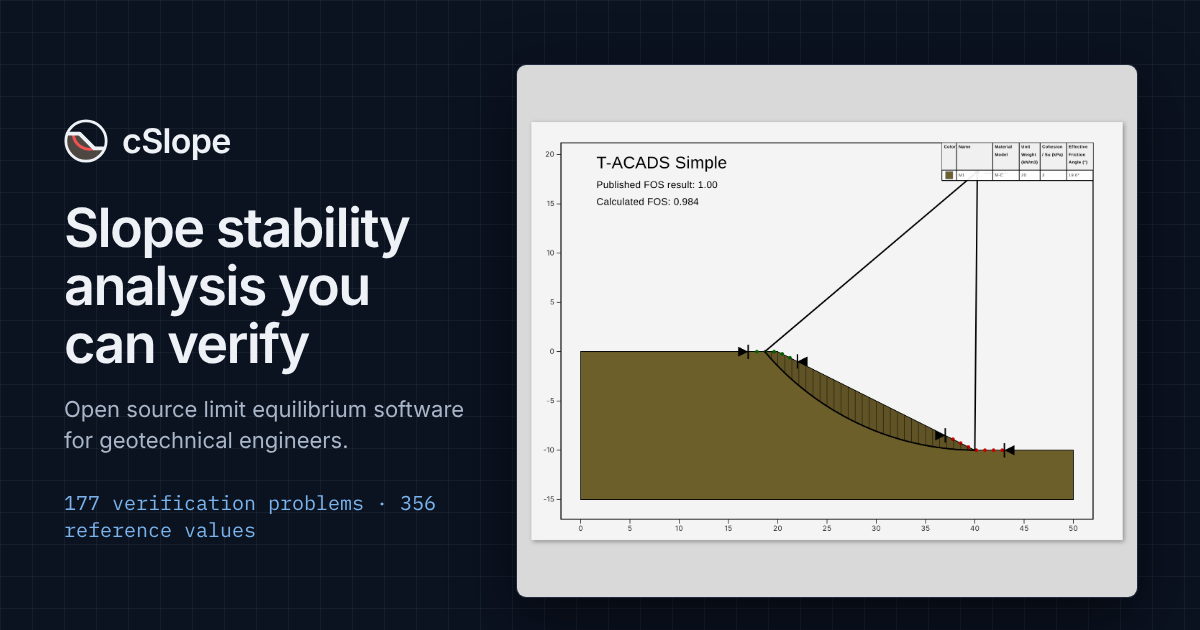
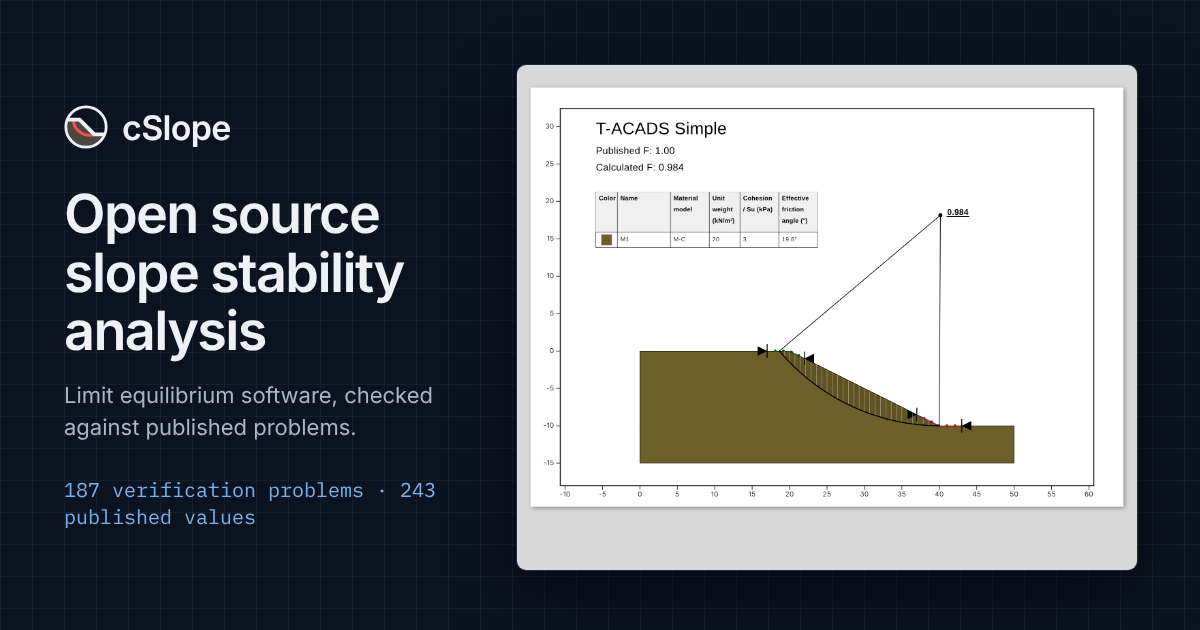
Website: plainer copy (humanizer pass on the home, features, about and download pages) (#118)
Headings and leads that promised rather than stated are rewritten as
plain facts: the hero, the section titles on the home page, the features
header and leads, the about page and the download lead. The features page
no longer says projects are saved as plain JSON (they are .cslp files).
The social preview image is re-rendered with the new text.

Claude-Session: https://claude.ai/code/session_01BL3SnYT7y9qgZYwTFmy79Q

diff --git a/packages/website/src/pages/Home.tsx b/packages/website/src/pages/Home.tsx
@@ -40,7 +40,7 @@ function Hero() {
             {s.problems} verification problems, {s.publishedValues} published values
           </p>
           <h1 className="mt-6 text-4xl font-semibold tracking-tight text-balance sm:text-5xl">
-            Slope stability analysis you can verify
+            Slope stability analysis, checked against published problems
           </h1>
           <p className="mt-6 max-w-xl text-lg leading-relaxed text-muted-foreground text-pretty">
             cSlope is limit equilibrium software for geotechnical engineers. Bishop, Janbu and Morgenstern-Price on
@@ -116,10 +116,10 @@ function WebApp() {
       <div className="grid items-center gap-8 overflow-hidden rounded-xl border bg-card p-6 sm:p-10 lg:grid-cols-[1fr_1.4fr] lg:gap-12">
         <div>
           <p className="text-sm font-semibold text-primary">In the browser</p>
-          <h2 className="mt-2 text-2xl font-semibold tracking-tight sm:text-3xl">Try it in your browser</h2>
+          <h2 className="mt-2 text-2xl font-semibold tracking-tight sm:text-3xl">Two templates to try without installing</h2>
           <p className="mt-3 leading-relaxed text-muted-foreground text-pretty">
-            Two templates, an excavation in clay with a haul road and an embankment on clay. Fill in the form and the
-            cSlope engine computes F on your own computer, with nothing to install.
+            An excavation in clay with a haul road, and an embankment on clay. Fill in the form and the cSlope engine
+            computes F on your own computer.
           </p>
           <Button asChild size="lg" className="mt-6">
             <a {...link}>
@@ -143,12 +143,12 @@ function WebApp() {
 const CAPABILITIES: { icon: ReactNode; title: string; text: string }[] = [
   {
     icon: <BarChart3 className="h-5 w-5" />,
-    title: "Three methods, one model",
+    title: "Methods",
     text: "Bishop simplified, Janbu with the f₀ correction and Morgenstern-Price with constant (Spencer), half-sine, clipped-sine, trapezoidal or user-defined interslice functions.",
   },
   {
     icon: <Spline className="h-5 w-5" />,
-    title: "Circular and non-circular",
+    title: "Slip surfaces",
     text: "Search by entry and exit ranges, custom circles and polylines, non-circular optimization, minimum slip depth and analysis in both slip directions.",
   },
   {
@@ -178,8 +178,8 @@ function Capabilities() {
     <Section id="capabilities">
       <SectionHeading
         eyebrow="Capabilities"
-        title="Everything a slope stability review needs"
-        lead="One desktop application for the whole job: model the section, run the search, check the result and produce the report."
+        title="What the desktop application does"
+        lead="Model the section, search for the critical surface, check the result and print the report, in one program."
       />
       <div className="mt-12 grid gap-px overflow-hidden rounded-lg border bg-border sm:grid-cols-2 lg:grid-cols-3">
         {CAPABILITIES.map((c) => (
@@ -320,7 +320,7 @@ const GALLERY = [
 function Gallery() {
   return (
     <Section id="screenshots">
-      <SectionHeading eyebrow="The application" title="Built for daily engineering work" />
+      <SectionHeading eyebrow="The application" title="Screenshots" />
       <div className="mt-12 grid gap-6 md:grid-cols-2">
         {GALLERY.map((g) => (
           <Screenshot
@@ -337,9 +337,9 @@ function Gallery() {
 }
 
 const OPEN_SOURCE = [
-  ["Transparent", "The solvers, the search and every verification problem are in the public repository."],
-  ["Reproducible", "Deterministic solvers and an open project file (JSON in a ZIP archive): the same model gives the same answer."],
-  ["Maintained", `Developed by ${SITE.company.name}, with automated tests and verification on every change.`],
+  ["The code is public", "The solvers, the search and every verification problem are in the public repository."],
+  ["The same model gives the same answer", "The solvers are deterministic. A project is a .cslp file: JSON in a ZIP archive."],
+  ["Tested on every change", `Developed by ${SITE.company.name}. The automated tests and the verification problems run on every change.`],
 ] as const;
 
 function OpenSource() {
@@ -348,8 +348,8 @@ function OpenSource() {
       <div className="grid gap-10 md:grid-cols-2 md:items-center">
         <SectionHeading
           eyebrow="Open source"
-          title="Yours to inspect, run and keep"
-          lead="cSlope is MIT licensed. There is no license server, no subscription and no lock-in: install it on every machine in the office, read the solver code behind any result, and keep the version your project was approved with."
+          title="No license server, no subscription"
+          lead="cSlope is MIT licensed. You can install it on every computer in the office, read the solver code behind a result, and keep using the version a project was approved with."
         />
         <ul className="grid gap-4 text-sm">
           {OPEN_SOURCE.map(([title, text]) => (
@@ -372,10 +372,9 @@ function DownloadBand() {
     <Section id="download">
       <div className="flex flex-col items-start justify-between gap-8 rounded-xl border bg-card p-8 sm:p-12 md:flex-row md:items-center">
         <div className="max-w-xl">
-          <h2 className="text-2xl font-semibold tracking-tight sm:text-3xl">Try it on your next section</h2>
+          <h2 className="text-2xl font-semibold tracking-tight sm:text-3xl">Download cSlope</h2>
           <p className="mt-3 text-muted-foreground">
-            Install cSlope on Windows and open one of the example models from Help › Examples to see a
-            complete analysis in a minute.
+            Install it on Windows, then open an example model from Help › Examples.
           </p>
         </div>
         <div className="flex shrink-0 flex-col gap-3 sm:flex-row">

diff --git a/packages/website/src/pages/Features.tsx b/packages/website/src/pages/Features.tsx
@@ -37,7 +37,7 @@ const AREAS: Area[] = [
   {
     id: "search",
     title: "Slip surface search",
-    lead: "Find the critical surface the way you would by hand, only faster and more thoroughly.",
+    lead: "A search for the critical surface between the limits you set, or the surfaces you draw yourself.",
     points: [
       "Circular search between entry and exit ranges, refined around the best surfaces.",
       "Custom circles and polylines, analyzed alone or together with the search.",
@@ -80,7 +80,7 @@ const AREAS: Area[] = [
   {
     id: "reinforcement",
     title: "Loads, reinforcement and support",
-    lead: "The structural elements of a real design, with their capacities along the slip surface.",
+    lead: "Reinforcement, piles and loads, with their capacities along the slip surface.",
     points: [
       "Distributed and line loads.",
       "Anchors, grouted tiebacks, soil nails and geosynthetics, active or passive, with tensile and pullout capacity.",
@@ -94,12 +94,12 @@ const AREAS: Area[] = [
   {
     id: "results",
     title: "Results and reporting",
-    lead: "From the analysis to a drawing you can put in a report, in the same application.",
+    lead: "Result plots and print sheets for the report, made in the same program.",
     points: [
       "Critical surface only, all surfaces, or surfaces below a factor of safety.",
       "Text, material tables, plots and a color bar on a print sheet; reusable templates.",
       "Plots of slice data and of Fm and Ff against λ.",
-      "Export to PDF and PNG; slice data to Excel and CSV; projects saved as plain JSON.",
+      "Export to PDF and PNG; slice data to Excel and CSV; projects saved as .cslp files (JSON in a ZIP archive).",
     ],
     media: MEDIA.annotations,
     caption: "A result sheet with a material table and annotations",
@@ -129,8 +129,8 @@ export function Features() {
     <>
       <PageHeader
         eyebrow="Features"
-        title="A complete slope stability tool"
-        lead="cSlope covers the analyses a geotechnical engineer runs on a slope or an embankment, from a first check to the design report."
+        title="What cSlope analyzes"
+        lead="Limit equilibrium analysis of slopes and embankments, from a first check to the design report."
       >
         <nav aria-label="Feature areas" className="mt-8 flex flex-wrap gap-2">
           {AREAS.map((a) => (
@@ -182,7 +182,7 @@ export function Features() {
 
       <Section>
         <div className="flex flex-col items-start gap-4 sm:flex-row sm:items-center sm:justify-between">
-          <p className="text-lg font-medium">Every one of these is covered by the verification problems.</p>
+          <p className="text-lg font-medium">The verification page lists every problem cSlope is checked against.</p>
           <Button asChild variant="outline">
             <Link to="/verification">
               See the verification

diff --git a/packages/website/src/pages/About.tsx b/packages/website/src/pages/About.tsx
@@ -10,20 +10,19 @@ export function About() {
       <PageHeader
         eyebrow="About"
         title="Who makes cSlope"
-        lead={`cSlope is developed by ${SITE.company.name}, for geotechnical engineers who want an analysis tool they can inspect, verify and rely on.`}
+        lead={`cSlope is developed by ${SITE.company.name} and released as open source under the MIT license.`}
       />
       <Section>
         <div className="grid max-w-5xl gap-12 md:grid-cols-2">
           <div className="space-y-4 leading-relaxed text-muted-foreground">
             <h2 className="text-xl font-semibold text-foreground">Why open source</h2>
             <p>
-              A factor of safety is only as trustworthy as the method behind it. With cSlope, every equation, every
-              search step and every verification problem is in a public repository, where anyone can read it, run it
-              and check it.
+              The equations, the search and the verification problems are in a public repository, where anyone can read
+              and run them and check a result against its source.
             </p>
             <p>
-              Open source also means the program belongs to its users: no license server, no subscription that ends,
-              and the version a project was approved with stays available.
+              There is no license server and no subscription, and the version a project was approved with stays
+              available.
             </p>
           </div>
           <div className="space-y-4 leading-relaxed text-muted-foreground">

diff --git a/packages/website/index.html b/packages/website/index.html
@@ -3,7 +3,7 @@
   <head>
     <meta charset="UTF-8" />
     <meta name="viewport" content="width=device-width, initial-scale=1.0" />
-    <title>cSlope — Slope Stability Analysis</title>
+    <title>cSlope — Slope stability analysis</title>
     <meta
       name="description"
       content="cSlope is open source limit equilibrium software for slope stability analysis: Bishop, Janbu and Morgenstern–Price on circular and non-circular slip surfaces, verified against published solutions."
@@ -21,7 +21,7 @@
     </script>
     <meta property="og:type" content="website" />
     <meta property="og:site_name" content="cSlope" />
-    <meta property="og:title" content="cSlope — Slope Stability Analysis" />
+    <meta property="og:title" content="cSlope — Slope stability analysis" />
     <meta
       property="og:description"
       content="Open source limit equilibrium software for slope stability analysis, verified against published solutions."

diff --git a/packages/website/src/pages/Home.test.tsx b/packages/website/src/pages/Home.test.tsx
@@ -14,7 +14,7 @@ const renderPage = () =>
 describe("Home page", () => {
   it("opens cSlope in the browser at a filled-in section, in a new tab, from the button and the screenshot", () => {
     renderPage();
-    const section = screen.getByRole("heading", { name: "Try it in your browser" }).closest("section")!;
+    const section = screen.getByRole("heading", { name: "Two templates to try without installing" }).closest("section")!;
     const button = within(section).getByRole("link", { name: /^Open cSlope in the browser/ });
     const image = within(section).getByRole("link", { name: /^cSlope in the browser:/ });
     for (const link of [button, image]) {

diff --git a/packages/website/src/site.ts b/packages/website/src/site.ts
@@ -1,7 +1,7 @@
 /** Site-wide facts and links, in one place. */
 export const SITE = {
   name: "cSlope",
-  tagline: "Slope stability analysis you can verify",
+  tagline: "Slope stability analysis, checked against published problems",
   description:
     "Open source limit equilibrium software for slope stability analysis, verified against published solutions.",
   github: "https://github.com/ZilanCiftci/cslope",

diff --git a/packages/website/scripts/og-image.html b/packages/website/scripts/og-image.html
@@ -36,8 +36,8 @@
         </svg>
         cSlope
       </div>
-      <h1>Slope stability analysis you can verify</h1>
-      <p>Open source limit equilibrium software for geotechnical engineers.</p>
+      <h1>Open source slope stability analysis</h1>
+      <p>Limit equilibrium software, checked against published problems.</p>
       <div class="fig">{{FIGURES}}</div>
     </div>
     <img src="{{IMAGE}}" />

diff --git a/packages/website/src/pages/Download.tsx b/packages/website/src/pages/Download.tsx
@@ -30,7 +30,7 @@ export function Download() {
       <PageHeader
         eyebrow="Download"
         title="Install cSlope"
-        lead="Free and open source under the MIT license. No account, no license key, no license server."
+        lead="Free and open source under the MIT license. It needs no account, license key or license server."
       />
 
       <Section>
